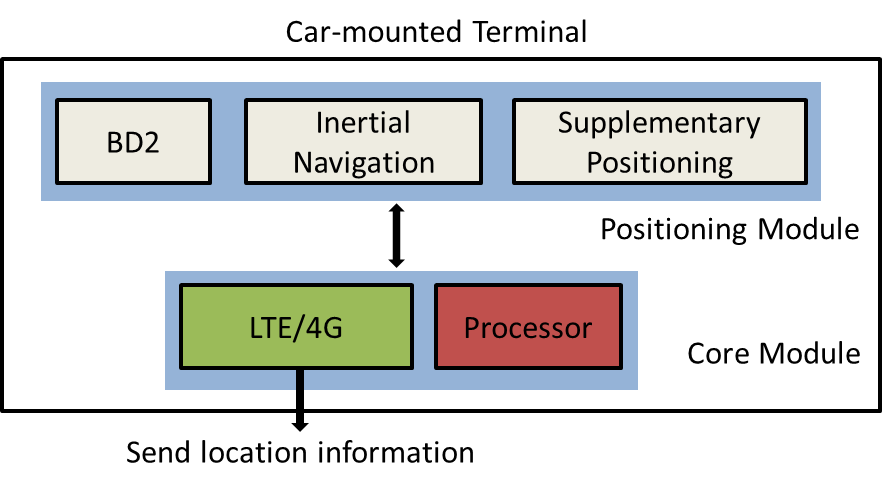
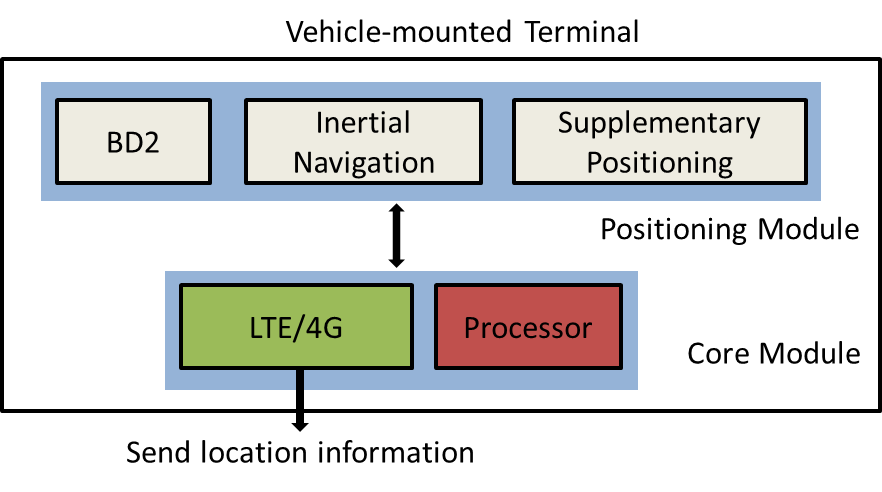
car-mounted to vehicle-mounted

Changed region(s): [[0.3061, 0.0305, 0.7347, 0.0915]]

diff --git a/master_time/price.md b/master_time/price.md
@@ -25,13 +25,13 @@ However, current traffic guidace system doesn't seem to work well enough. Firstl
 
 ## General System
 
-We proposed a kind of architecture which is shown in figure \ref{general_system}  to serve as an intelligent traffic system. This system is divided into three parts: the client side, internet and the server side. In the client side, the car-mounted terminal would send location infomation to the server every once in a while and the smart phone (which may be replaced by car-mounted terminal) would send a request for guidance infomation and receive it on the other hand. In the server side, our server is designed to implement the following functions: real-time traffic analysis, valuation module, route planning algorithms and guidance infomation digitalizing.
+We proposed a kind of architecture which is shown in figure \ref{general_system}  to serve as an intelligent traffic system. This system is divided into three parts: the client side, internet and the server side. In the client side, the vehicle-mounted terminal would send location infomation to the server every once in a while and the smart phone (which may be replaced by vehicle-mounted terminal) would send a request for guidance infomation and receive it on the other hand. In the server side, our server is designed to implement the following functions: real-time traffic analysis, valuation module, route planning algorithms and guidance infomation digitalizing.
 
 ![General System\label{general_system}](general_system.png)
 
-As to the car-mounted terminal, we decide to collect the probe vihicles' position with the help of BD-2, inertial navigation module and supplementary module. BeiDou is Chinese satellite navigation system and was updated to BeiDou-2 (BD2) in 2007. BD-2 system is able to provide basic positioning service in China and the surrounding area now and is designed to gradually cover the earth. It has bee tested that BD-2 performed better than GPS most of time in Chinese mainland in the eyes of visibility, stability and some other aspects[@Chen2010].
+As to the vehicle-mounted terminal, we decide to collect the probe vihicles' position with the help of BD-2, inertial navigation module and supplementary module. BeiDou is Chinese satellite navigation system and was updated to BeiDou-2 (BD2) in 2007. BD-2 system is able to provide basic positioning service in China and the surrounding area now and is designed to gradually cover the earth. It has bee tested that BD-2 performed better than GPS most of time in Chinese mainland in the eyes of visibility, stability and some other aspects[@Chen2010].
 
-The car-mounted terminal is designed to communicate with the server through LTE/4G which will become the most popular communication method in the future due to its better quality, speed and stability.
+The vehicle-mounted terminal is designed to communicate with the server through LTE/4G which will become the most popular communication method in the future due to its better quality, speed and stability.
 
 ![Car-mounted Terminal](car_mounted_terminal.png)
 
